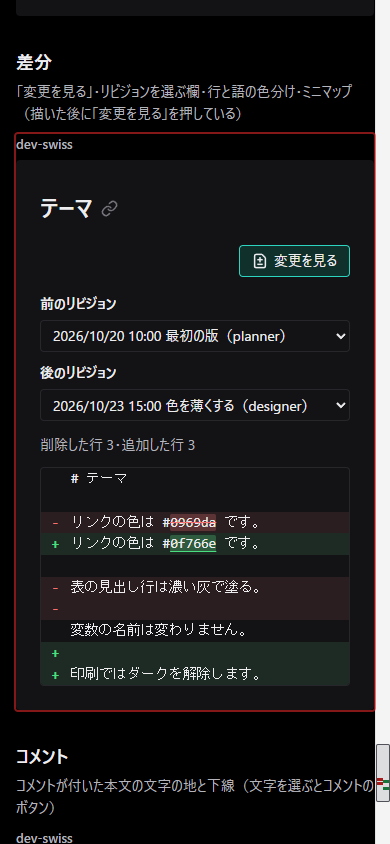
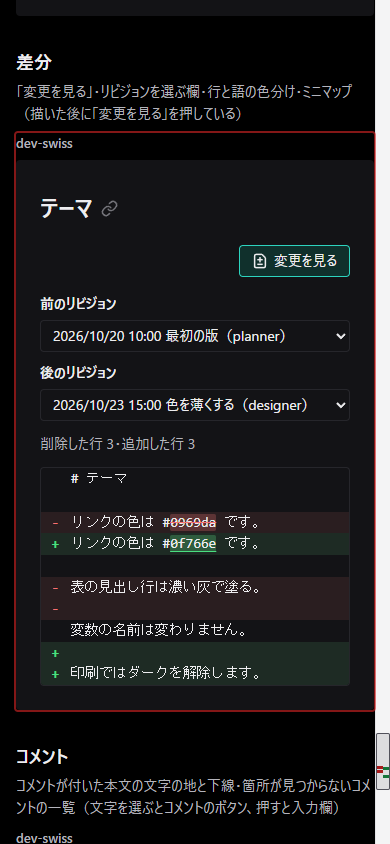
mock: PR #80 のキャンバスにコメントのボタン・入力欄・箇所が見つからないコメントと図の全画面の場面を足す

diff --git a/dev/mock/pages/ui-canvas/80/side-by-side/index.html b/dev/mock/pages/ui-canvas/80/side-by-side/index.html
@@ -45,7 +45,7 @@
       <tbody>
         <tr><td><a href="#part-callout">注意書き</a></td><td>種類の色を地に 7% 混ぜた面と、40% 混ぜた線。今の CSS は種類の色そのものの線だけで、面を塗らない</td><td>必須（部品の CSS を変える）</td></tr>
         <tr><td><a href="#part-flow">フロー図</a></td><td>箱の角丸 8px（データの箱は 8px / 20px）を CSS に直に持ち、<code>--mdmark-radius</code>（4px）に揃わない</td><td>論点</td></tr>
-        <tr><td>図の全画面・まとめた HTML の一覧のパネル</td><td>開いたときの後ろの幕の色 <code>rgb(0 0 0 / 0.5)</code>・<code>rgb(0 0 0 / 0.4)</code> を CSS に直に持つ（キャンバスには出ない）</td><td>論点</td></tr>
+        <tr><td>図の全画面・まとめた HTML の一覧のパネル</td><td>開いたときの後ろの幕の色 <code>rgb(0 0 0 / 0.5)</code>・<code>rgb(0 0 0 / 0.4)</code> を CSS に直に持つ（図の幕は全画面のボタンで出る。一覧のパネルの幕はキャンバスには出ない）</td><td>論点</td></tr>
       </tbody>
     </table>
 
@@ -606,7 +606,7 @@ mount(el, { markdown }); // [!code highlight]
     <!-- コメント -->
     <section class="canvas-section" id="part-comment" data-canvas="comment">
       <h2>コメント</h2>
-      <p>コメントが付いた本文の文字の地と下線（文字を選ぶとコメントのボタン）</p>
+      <p>コメントが付いた本文の文字の地と下線・箇所が見つからないコメントの一覧（文字を選ぶとコメントのボタン、押すと入力欄）</p>
       <script type="text/markdown" data-canvas-source>
 mdmark の既定の見た目を mindstella の値に揃える。
 

diff --git a/dev/mock/refs/80/assets/canvas-themes.css b/dev/mock/refs/80/assets/canvas-themes.css
@@ -1,4 +1,4 @@
-/* 洗い出しのキャンバスの列ごとの値: 今の値（src/index.css の modern）と、採用した dev-swiss の値（dev/mock/assets/style.css）を、列の要素に当てる */
+/* 洗い出しのキャンバスの列ごとの値: 今の値（src/index.css の modern）と、採用した dev-swiss の値（dev/mock/assets/style.css）を、列の要素に当てる。列を 1 つに絞ったときはページの根（html）にも当て、本文の外に置く部品（コメントのボタン・入力欄・吹き出し・差分のミニマップ）にも効かせる */
 
 /* 今の値の明るい配色と配色によらない値（dev-swiss の列も土台にする） */
 :is(.theme-modern, .theme-dev-swiss) {
@@ -129,8 +129,9 @@
 
 /* ダークの配色の値。画面のときだけ当て、印刷では明るい配色に戻す */
 @media screen {
-  /* 今の値のダーク（dev-swiss の列も土台にする） */
-  :root[data-scheme="dark"] :is(.theme-modern, .theme-dev-swiss) {
+  /* 今の値のダーク（dev-swiss の列も土台にする）。列の要素と、列を 1 つに絞ったときのページの根に当てる */
+  :root[data-scheme="dark"] :is(.theme-modern, .theme-dev-swiss),
+  :root[data-scheme="dark"]:is(.theme-modern, .theme-dev-swiss) {
     --mdmark-color-bg: #0d1117;
     --mdmark-color-text: #f0f6fc;
     --mdmark-color-heading: #f0f6fc;
@@ -175,7 +176,8 @@
   }
 
   /* dev-swiss のダーク */
-  :root[data-scheme="dark"] .theme-dev-swiss {
+  :root[data-scheme="dark"] .theme-dev-swiss,
+  :root[data-scheme="dark"].theme-dev-swiss {
     --mdmark-color-bg: #131316;
     --mdmark-color-text: #ededef;
     --mdmark-color-heading: #ededef;

diff --git a/dev/mock/pages/ui-canvas/80/side-by-side/app.js b/dev/mock/pages/ui-canvas/80/side-by-side/app.js
@@ -36,10 +36,11 @@ const DIFF_SOURCE = {
       : "# テーマ\n\nリンクの色は #0f766e です。\n\n変数の名前は変わりません。\n\n印刷ではダークを解除します。\n",
 };
 
-/** コメントの読み書き: 本文の「既定の見た目」に付いたコメントを 1 件返し、保存は下書きに ID を付けて返す */
+/** コメントの読み書き: 本文の「既定の見た目」に付いたコメントと、本文に無い文字に付いたコメント（箇所が見つからない）を返し、保存は下書きに ID を付けて返す */
 const COMMENT_STORE = {
   load: async () => [
     { id: "c1", quote: "既定の見た目", prefix: "mdmark の", suffix: "を mindstella", body: "表の見出し行の濃さも揃えたい。" },
+    { id: "c2", quote: "濃い青のリンク", prefix: "", suffix: "", body: "書き換える前の本文に付けたコメント。" },
   ],
   save: async ({ comment }) => ({ ...comment, id: `c${Date.now()}` }),
 };
@@ -80,6 +81,11 @@ function addColumns(section) {
 const PARAMS = new URLSearchParams(location.search);
 const PARTS = PARAMS.get("parts")?.split(",");
 const SHOWN_COLUMNS = PARAMS.get("columns")?.split(",");
+
+// 列を 1 つに絞ったときは、本文の外（body の直下）に置く部品にも列の値が効くよう、ページの根にもその列の class を当てる
+if (SHOWN_COLUMNS?.length === 1) {
+  document.documentElement.classList.add(SHOWN_COLUMNS[0]);
+}
 
 for (const section of document.querySelectorAll("[data-canvas]")) {
   const key = section.dataset.canvas;
